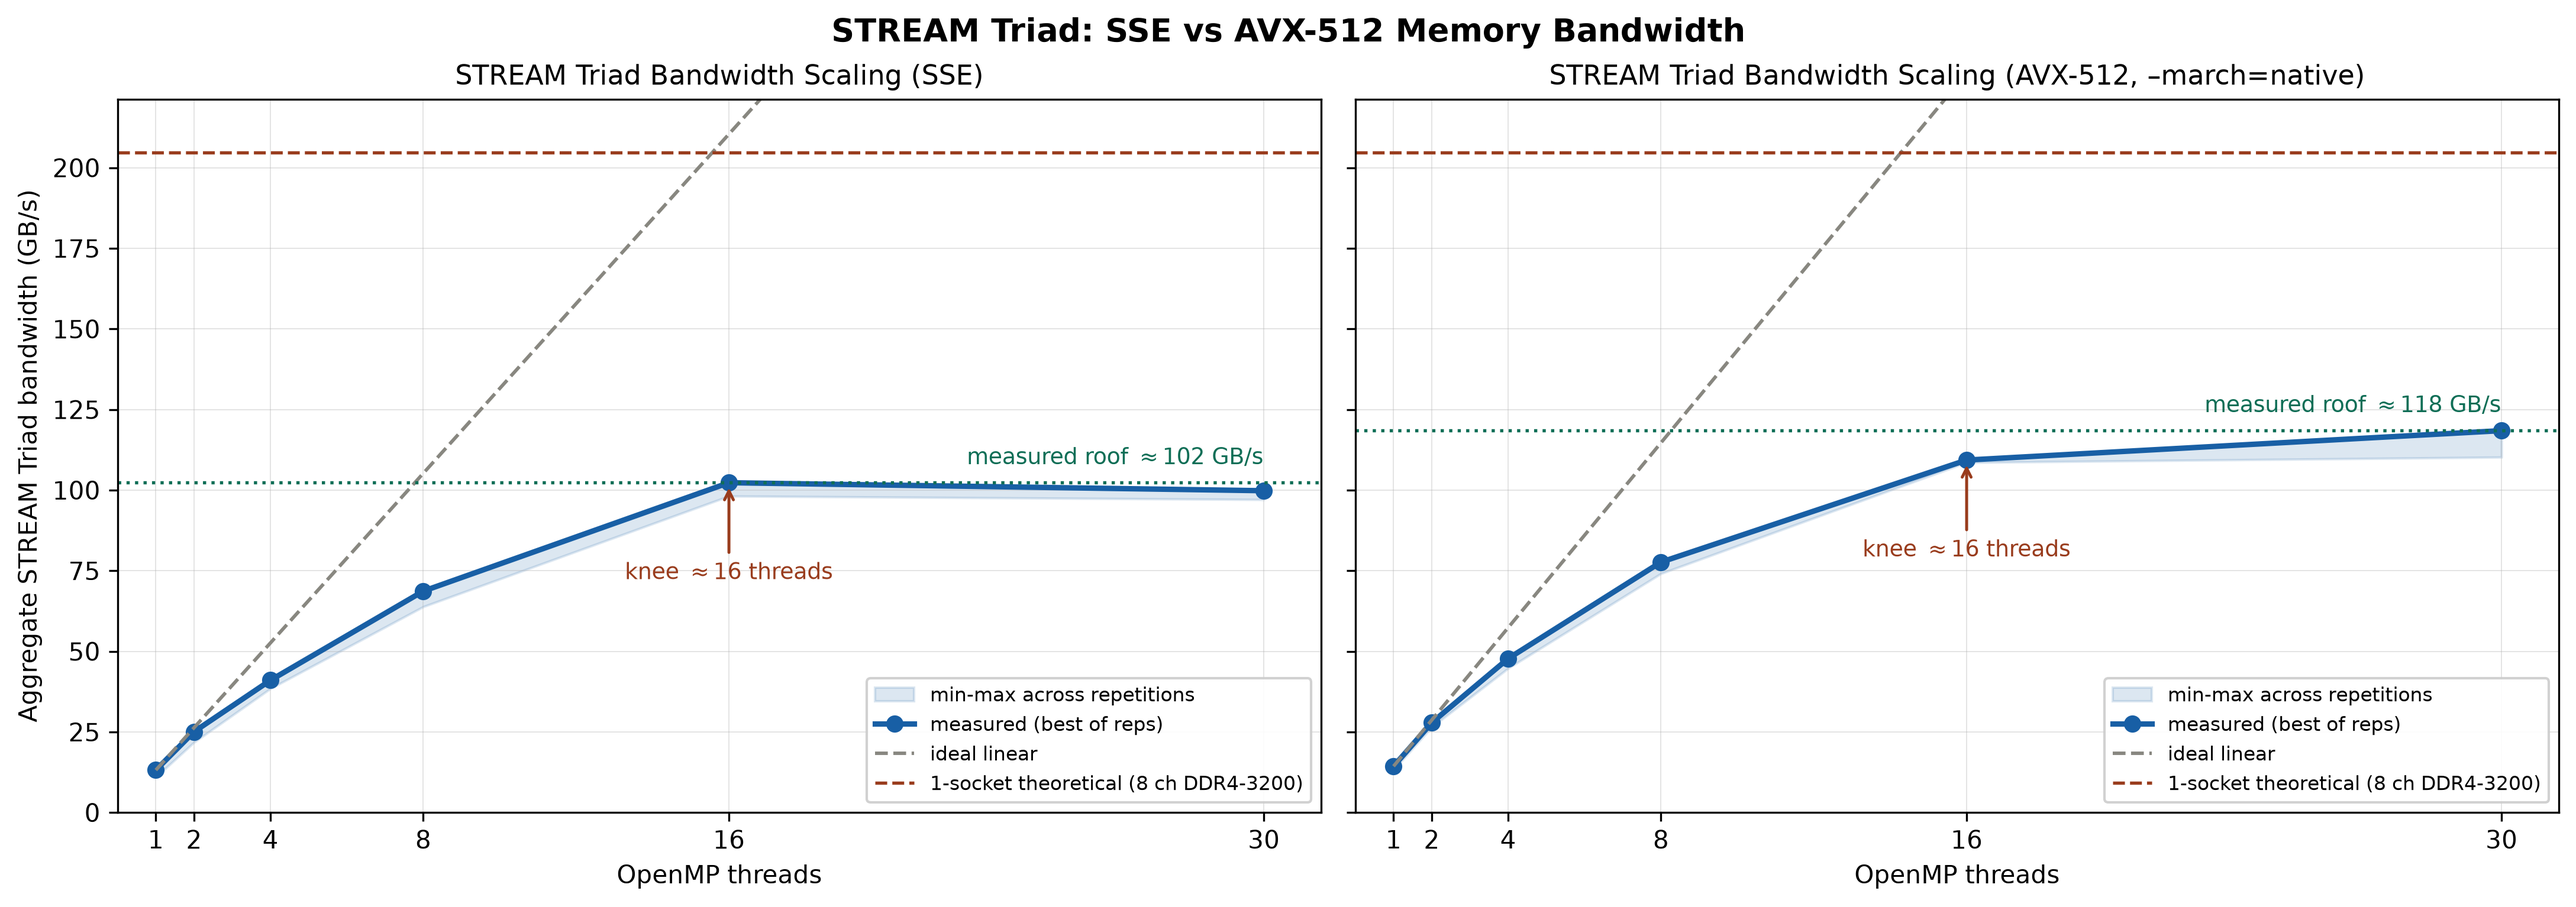
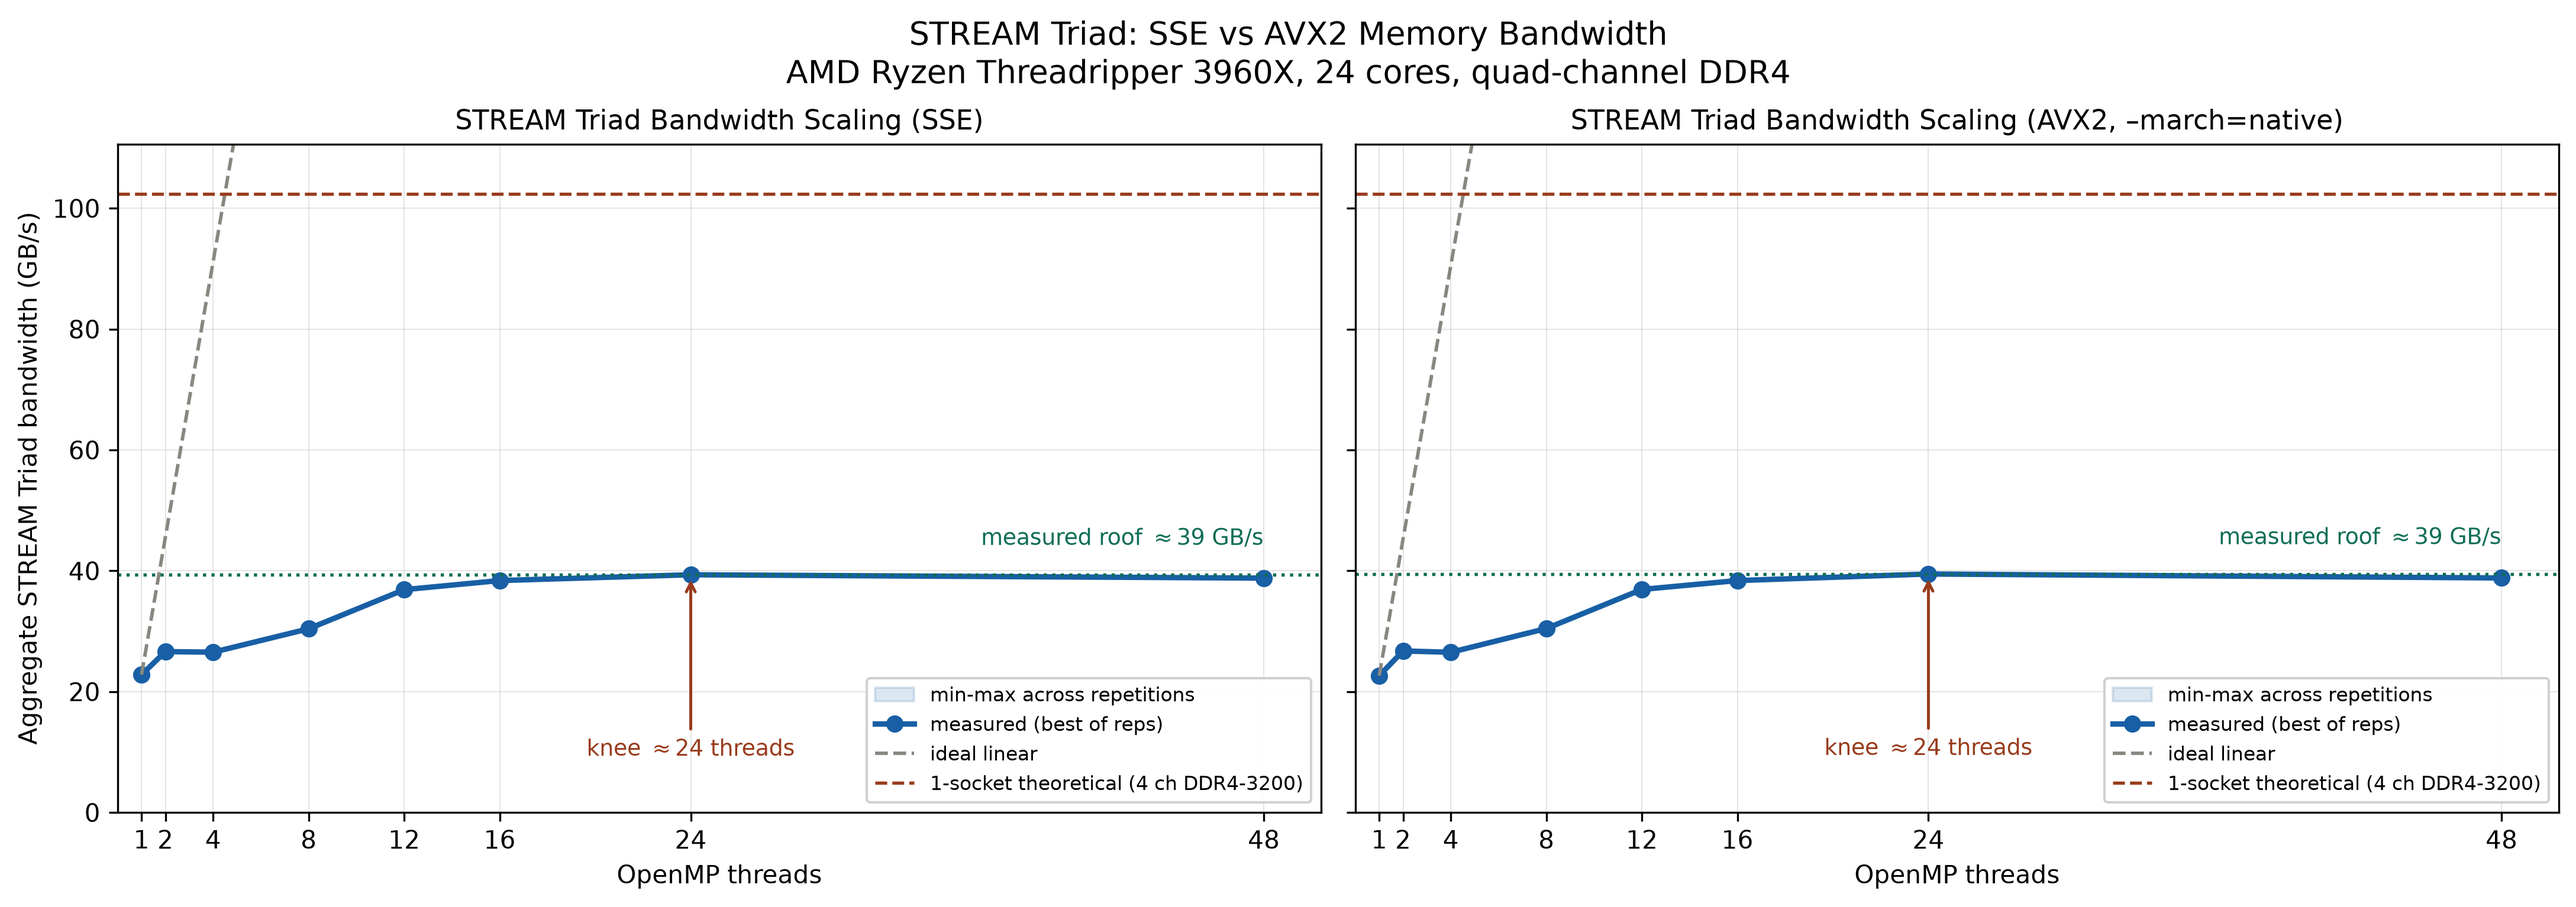
feat: updated stream sweep with SSE vs AVX2

diff --git a/scripts/stream_sweep_plot.py b/scripts/stream_sweep_plot.py
@@ -1,7 +1,7 @@
 """
 Side-by-side comparison of STREAM Triad bandwidth scaling:
-  left  → SSE (default compiler flags)
-  right → AVX-512 (-march=native)
+  left -> SSE (default compiler flags)
+  right -> AVX2 (-march=native, Ryzen Threadripper 3960X)
 """
 # /// script
 # dependencies = [
@@ -21,32 +21,40 @@ OUTPUT = Path(__file__).resolve().parent / "stream_sweep.png"
 
 
 # DATA: thread count -> list of Triad results (MB/s) across repetitions.
+# Run stream_sweep.sh and paste the numbers here (one list entry per run).
+# Thread counts match the sweep: 1, 2, 4, 8, 12, 16, 24, 48.
 # SSE (default flags, no -march=native)
 SSE_SWEEPS = {
-    #     run1        run2        run3
-    1:  [11837.0,   13152.6,    10962.7],
-    2:  [21791.0,   25053.5,    21782.1],
-    4:  [39120.5,   41024.3,    38448.0],
-    8:  [66480.4,   68665.7,    63831.7],
-    16: [98696.3,  102292.8,    98139.2],
-    30: [97059.5,   99808.9,    97803.5],
+    #     run1       run2       run3
+    1:  [22796.3,  22796.8,  22791.2],
+    2:  [26620.8,  26628.5,  26609.3],
+    4:  [26486.6,  26529.6,  26470.8],
+    8:  [30402.5,  30385.9,  30394.0],
+    12: [36868.7,  36882.9,  36878.3],
+    16: [38381.6,  38381.6,  38385.9],
+    24: [39346.2,  39298.4,  39274.8],
+    48: [38655.4,  38789.8,  38758.5],
 }
-# AVX-512 (-march=native)
-AVX512_SWEEPS = {
-    #     run1        run2        run3
-    1:  [14335.8,   13244.6,    13721.0],
-    2:  [27031.5,   26504.4,    27848.4],
-    4:  [46458.6,   44730.9,    47742.1],
-    8:  [77662.7,   74110.9,    76108.4],
-    16: [109323.9, 108844.0,   108572.8],
-    30: [118442.7, 117325.9,   110213.3],
+# AVX2 (-march=native, AMD Ryzen Threadripper 3960X)
+AVX2_SWEEPS = {
+    #     run1       run2       run3
+    1:  [22642.3,  22623.8,  22557.2],
+    2:  [26713.3,  26734.1,  26703.7],
+    4:  [26468.1,  26479.0,  26517.6],
+    8:  [30436.7,  30443.3,  30444.9],
+    12: [36861.8,  36846.0,  36918.0],
+    16: [38384.6,  38368.1,  38341.1],
+    24: [39469.1,  39434.0,  39413.4],
+    48: [38816.8,  38787.2,  38787.8],
 }
 
-# Hardware reference: Intel Xeon Platinum 8358, single socket.
-# 8 channels x DDR4-3200 (25.6 GB/s/ch) = 204.8 GB/s theoretical peak.
-THEORETICAL_ROOF_GBS = 204.8
-THEORETICAL_LABEL = "1-socket theoretical (8 ch DDR4-3200)"
-KNEE_THREADS = 16
+# Hardware reference: AMD Ryzen Threadripper 3960X, single socket.
+# 4 channels x DDR4-3200 (25.6 GB/s/ch) = 102.4 GB/s theoretical peak.
+THEORETICAL_ROOF_GBS = 102.4
+THEORETICAL_LABEL = "1-socket theoretical (4 ch DDR4-3200)"
+# Bandwidth peaks at 24 threads (39.5 GB/s) and drops ~0.7 GB/s at 48 (SMT
+# adds nothing on a memory-bound kernel); 24 is the saturation knee.
+KNEE_THREADS = 24
 C_DATA, C_IDEAL, C_THEO, C_ROOF = "#185FA5", "#888780", "#993C1D", "#0F6E56"
 
 
@@ -104,13 +112,14 @@ def main() -> None:
 
     draw_subplot(ax_sse, SSE_SWEEPS,
                  "STREAM Triad Bandwidth Scaling (SSE)")
-    draw_subplot(ax_avx, AVX512_SWEEPS,
-                 "STREAM Triad Bandwidth Scaling (AVX-512, –march=native)")
+    draw_subplot(ax_avx, AVX2_SWEEPS,
+                 "STREAM Triad Bandwidth Scaling (AVX2, –march=native)")
 
     ax_avx.set_ylabel("")
 
-    fig.suptitle("STREAM Triad: SSE vs AVX-512 Memory Bandwidth", fontsize=13,
-                 fontweight="bold")
+    fig.suptitle("STREAM Triad: SSE vs AVX2 Memory Bandwidth\n"
+                 "AMD Ryzen Threadripper 3960X, 24 cores, quad-channel DDR4",
+                 fontsize=13)
 
     fig.savefig(OUTPUT, dpi=300, bbox_inches="tight")
     print(f"Saved: {OUTPUT}")
